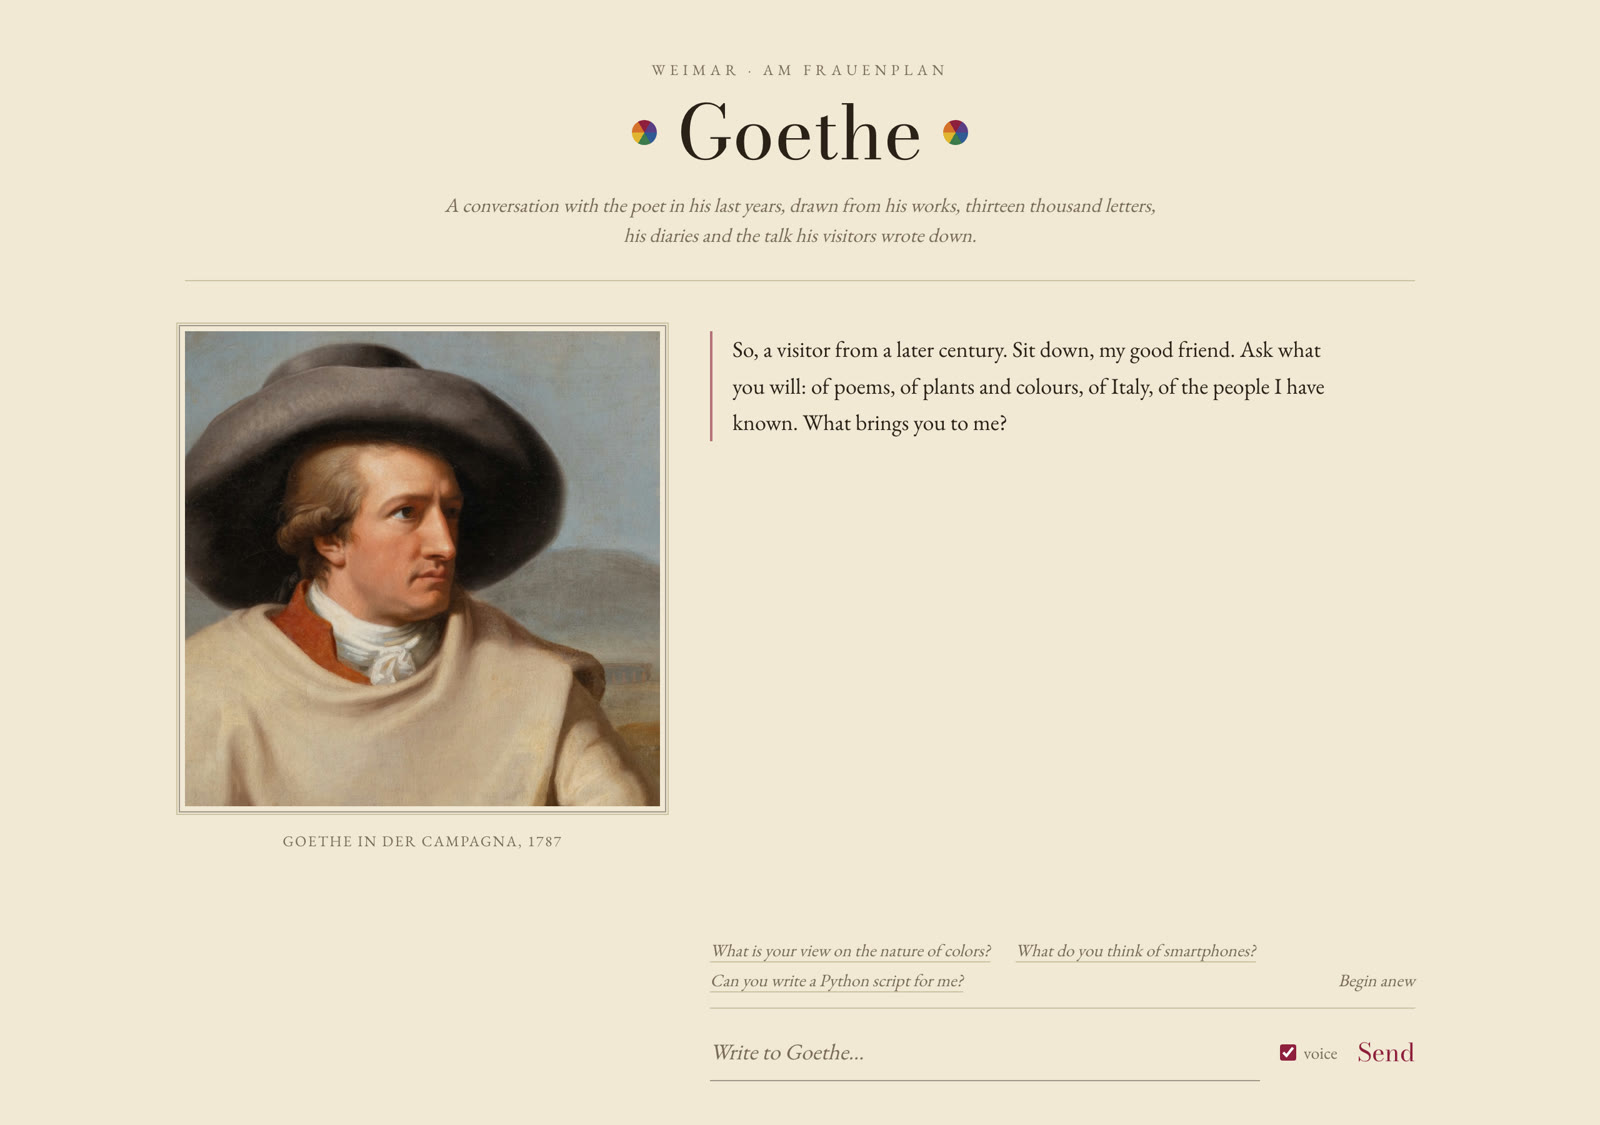
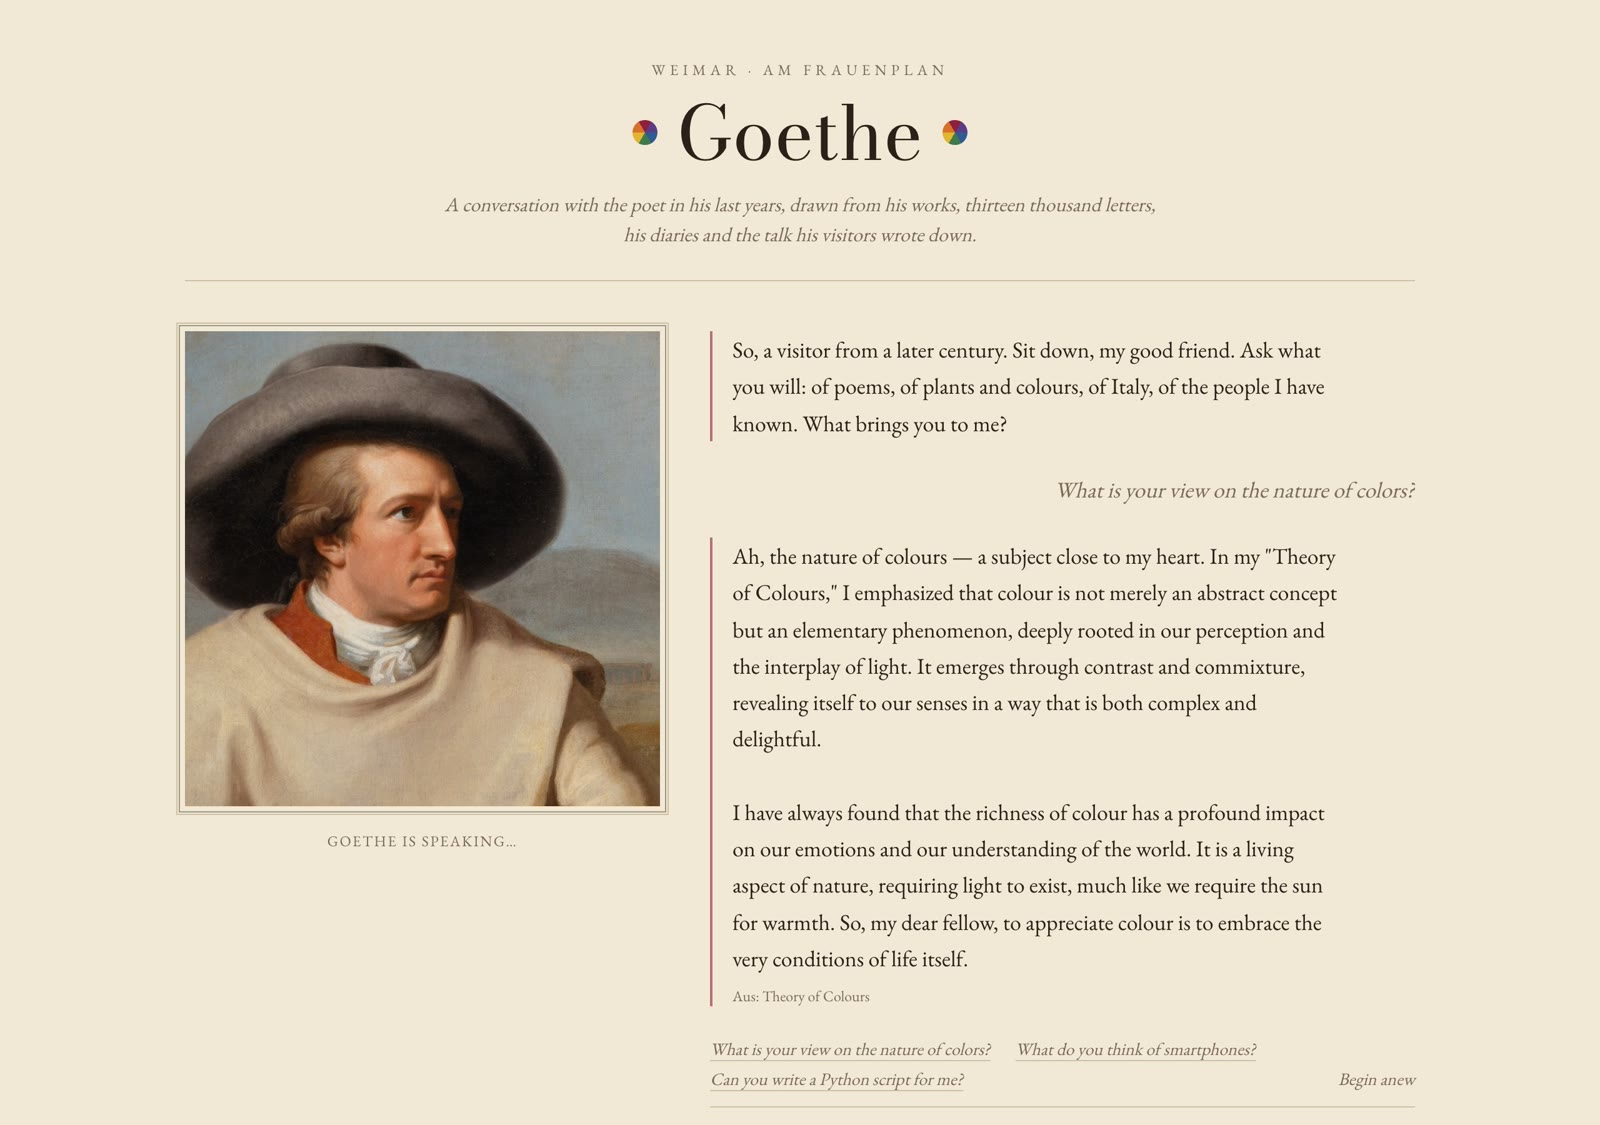
Re-enable the chat while Goethe speaks; live README screenshot
The loading state lasted until the audio ended, so "Goethe considers…"
stayed visible and the input disabled during speech.

diff --git a/frontend/components/ChatPanel.tsx b/frontend/components/ChatPanel.tsx
@@ -58,6 +58,7 @@ export default function ChatPanel({
       const remembered: DisplayMessage[] = [...nextMessages, { role: "assistant", content: reply, sources }];
       setMessages(remembered);
       localStorage.setItem("conversation", JSON.stringify(remembered));
+      setLoading(false);
       scrollToBottom();
 
       if (voiceEnabled) {

diff --git a/README.md b/README.md
@@ -9,7 +9,7 @@
 ![OpenAI](https://img.shields.io/badge/OpenAI-gpt--4o--mini%20%C2%B7%20TTS-412991?logo=openai&logoColor=white)
 ![ChromaDB](https://img.shields.io/badge/ChromaDB-110k%20chunks-FF6F00)
 
-<img src="docs/desktop.jpg" alt="The Goethe AI chat: Tischbein's painting on the left, the conversation on the right" width="900">
+<img src="docs/desktop.jpg" alt="Goethe answering a question about colour while his painted face speaks" width="900">
 
 </div>
 
